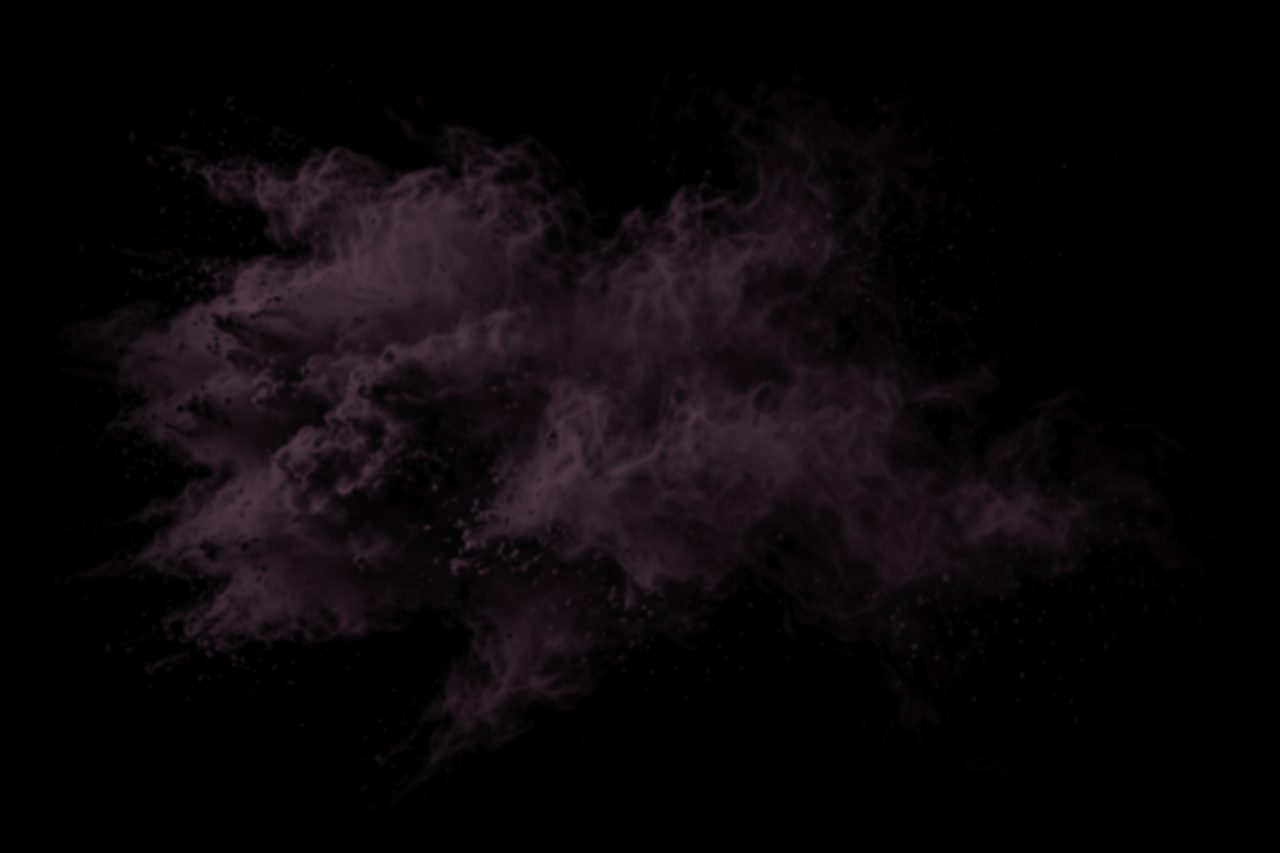
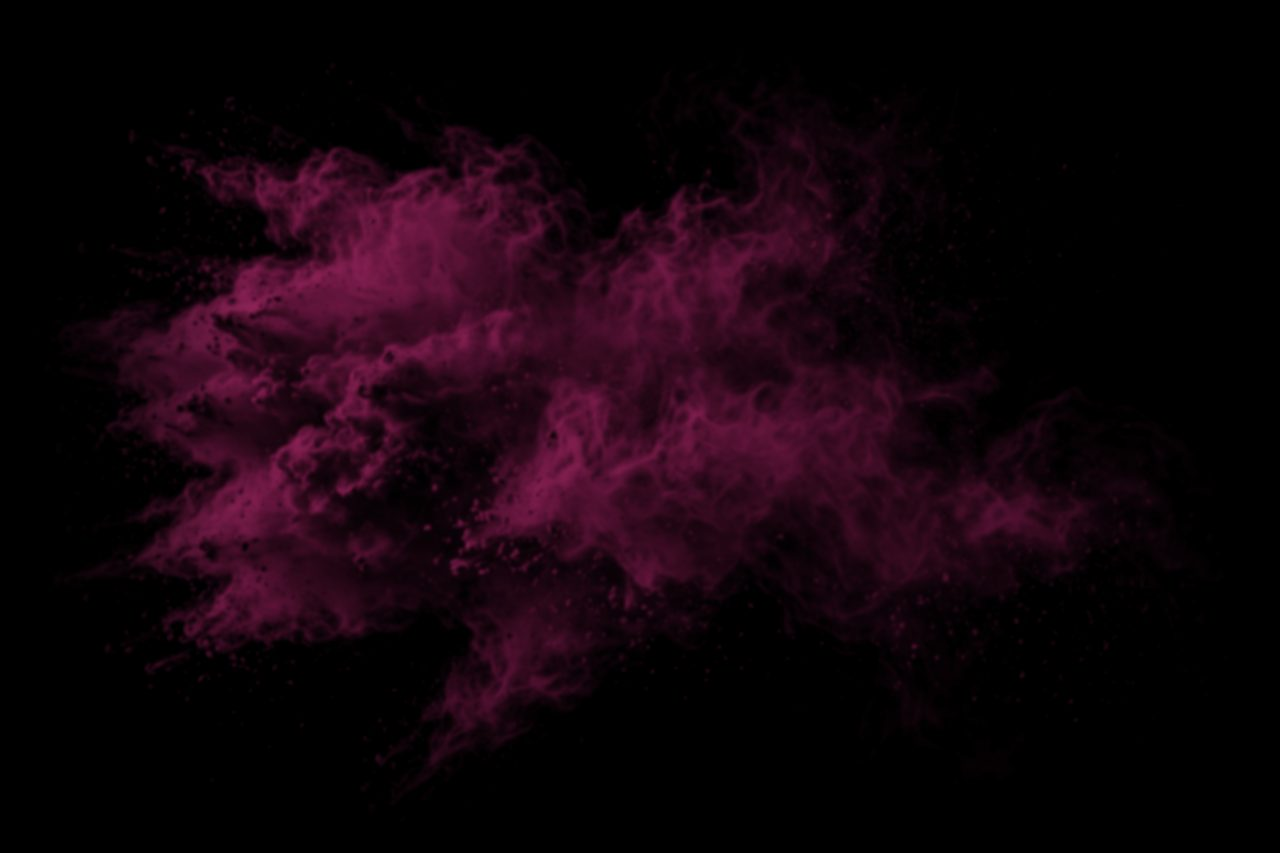
Theme: the chalk powder in the brand hot pink (#ff2d95), matte, not pastel; smoke back to hot pink

diff --git a/web/theme/tokens.css b/web/theme/tokens.css
@@ -47,8 +47,8 @@
   /* depth (brand design 2026-11-01): lime is the only pop colour; pink lives in the back layer as smoke and halftone
      dots, and every grey card carries a faint halftone dot field that fades into its grey, so no surface is flat */
   --color-pink: var(--palette-pink);
-  --color-pink-smoke: rgb(255 158 205 / 20%);
-  --color-pink-smoke-soft: rgb(255 158 205 / 10%);
+  --color-pink-smoke: rgb(255 45 149 / 24%);
+  --color-pink-smoke-soft: rgb(255 45 149 / 11%);
   --color-pink-dot: rgb(255 45 149 / 60%);
   --color-lime-dot: rgb(198 243 90 / 45%);
   --color-card-dot: rgb(255 255 255 / 6%);
